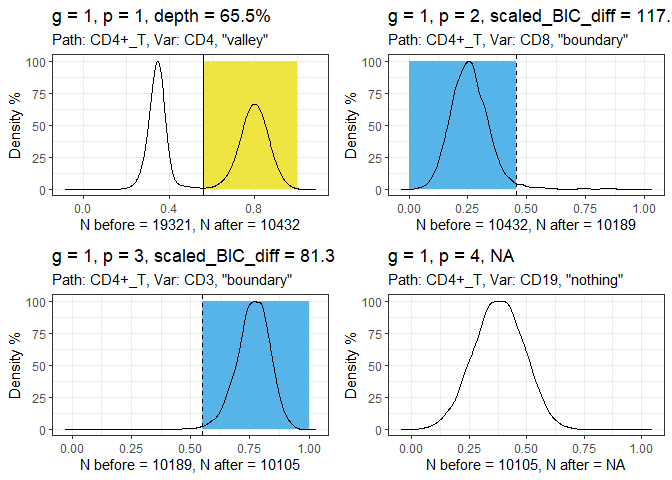
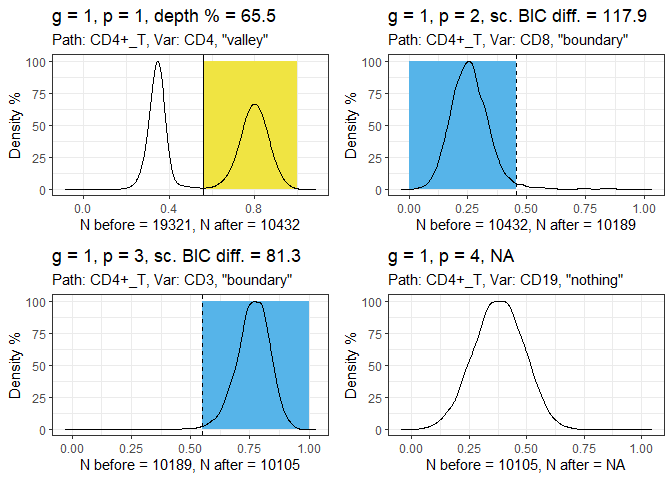
README

Changed region(s): [[0.75, 0.0, 1.0, 0.0625], [0.25, 0.5, 0.5, 0.5625], [0.3125, 0.0, 0.4062, 0.0625]]

diff --git a/README.md b/README.md
@@ -3,19 +3,33 @@ gateTree
 Ultán P. Doherty
 2024-04-25
 
+## Install and load `gateTree`.
+
 ``` r
-library(healthyFlowData)
-devtools::load_all()
+remotes::install_github("UltanPDoherty/gateTree")
 ```
 
 ``` r
+library(gateTree)
+```
+
+## Load and plot data from `healthyFlowData`.
+
+``` r
+library(healthyFlowData)
 data(hd)
 hfd1 <- hd.flowSet[[1]]@exprs
 
-GGally::ggpairs(hfd1, progress = FALSE)
+GGally::ggpairs(hfd1, upper = list(continuous = "density"), progress = FALSE)
 ```
 
 ![](README_files/figure-gfm/hfd1_setup-1.png)<!-- -->
+
+## Prepare a plusminus table which describes three populations.
+
+- CD4+ T Cells (CD4+CD8-CD3+CD19-)
+- CD8+ T Cells (CD4-CD8+CD3+CD19-)
+- B Cells (CD4-CD8-CD3-CD19+)
 
 ``` r
 plusminus <- rbind(
@@ -32,6 +46,8 @@ plusminus
     ## CD8+_T  -1   1   1   -1
     ## B       -1  -1  -1    1
 
+## Run the `gatetree` function.
+
 ``` r
 hfd1_gatetree <- gatetree(hfd1, plusminus, 
                           min_scaled_bic_diff = 50,
@@ -41,17 +57,22 @@ hfd1_gatetree <- gatetree(hfd1, plusminus,
 
 ![](README_files/figure-gfm/gatetree-1.png)<!-- -->![](README_files/figure-gfm/gatetree-2.png)<!-- -->![](README_files/figure-gfm/gatetree-3.png)<!-- -->
 
+## Plot the tree diagram.
+
 ``` r
 hfd1_gatetree$tree_plot + 
-  scale_y_continuous(expand = c(0.1, 0.1)) +
-  scale_x_continuous(expand = c(0.1, 0.1))
+  ggplot2::scale_y_continuous(expand = c(0.1, 0.1)) +
+  ggplot2::scale_x_continuous(expand = c(0.1, 0.1))
 ```
 
 ![](README_files/figure-gfm/tree_plot-1.png)<!-- -->
 
+## Plot the data, coloured according to the `gateTree` labels.
+
 ``` r
 GGally::ggpairs(hfd1, progress = FALSE,
-                aes(colour = as.factor(1 + hfd1_gatetree$labels))) +
+                upper = list(continuous = "density"),
+                ggplot2::aes(colour = as.factor(1 + hfd1_gatetree$labels))) +
   ggokabeito::scale_colour_okabe_ito(order = c(9, 1, 2, 3)) +
   ggokabeito::scale_fill_okabe_ito(order = c(9, 1, 2, 3))
 ```
